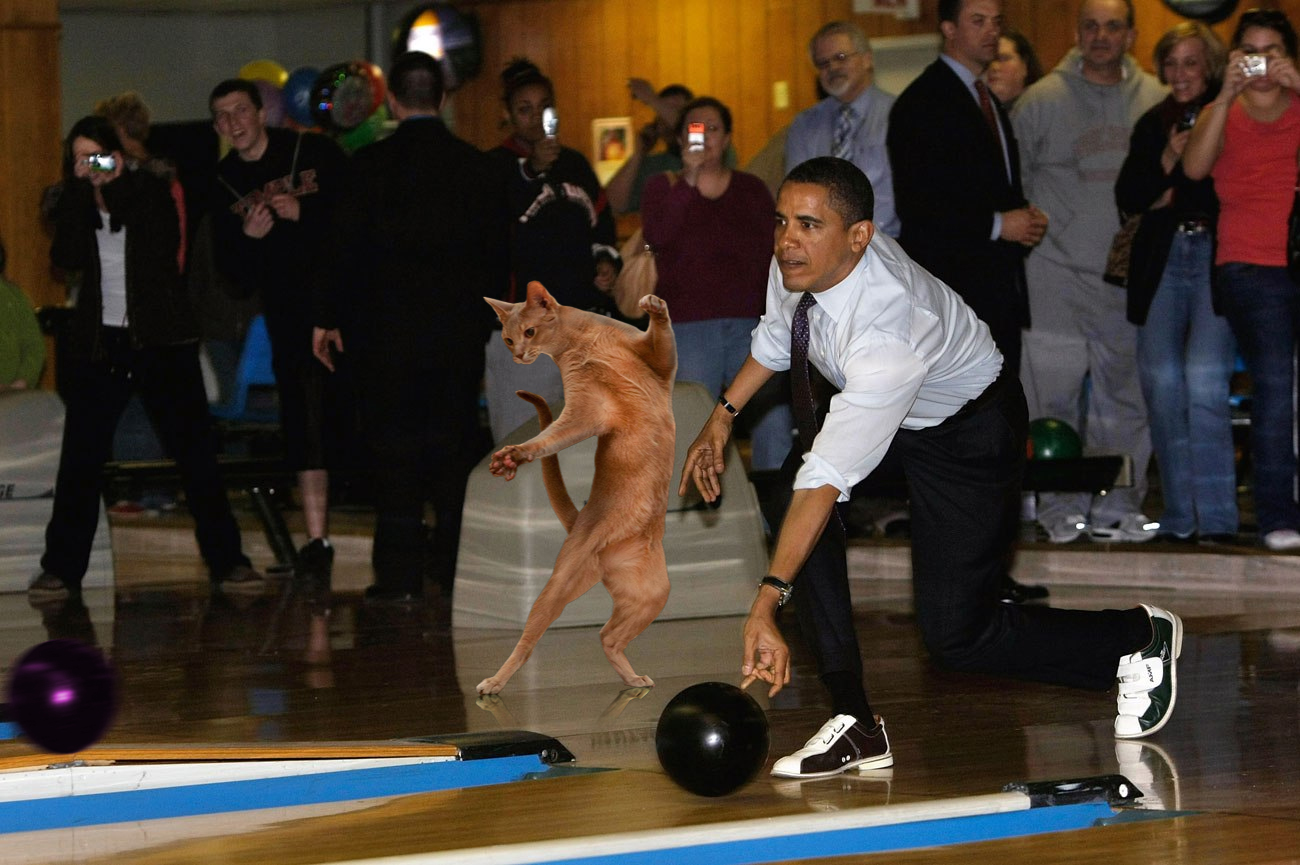
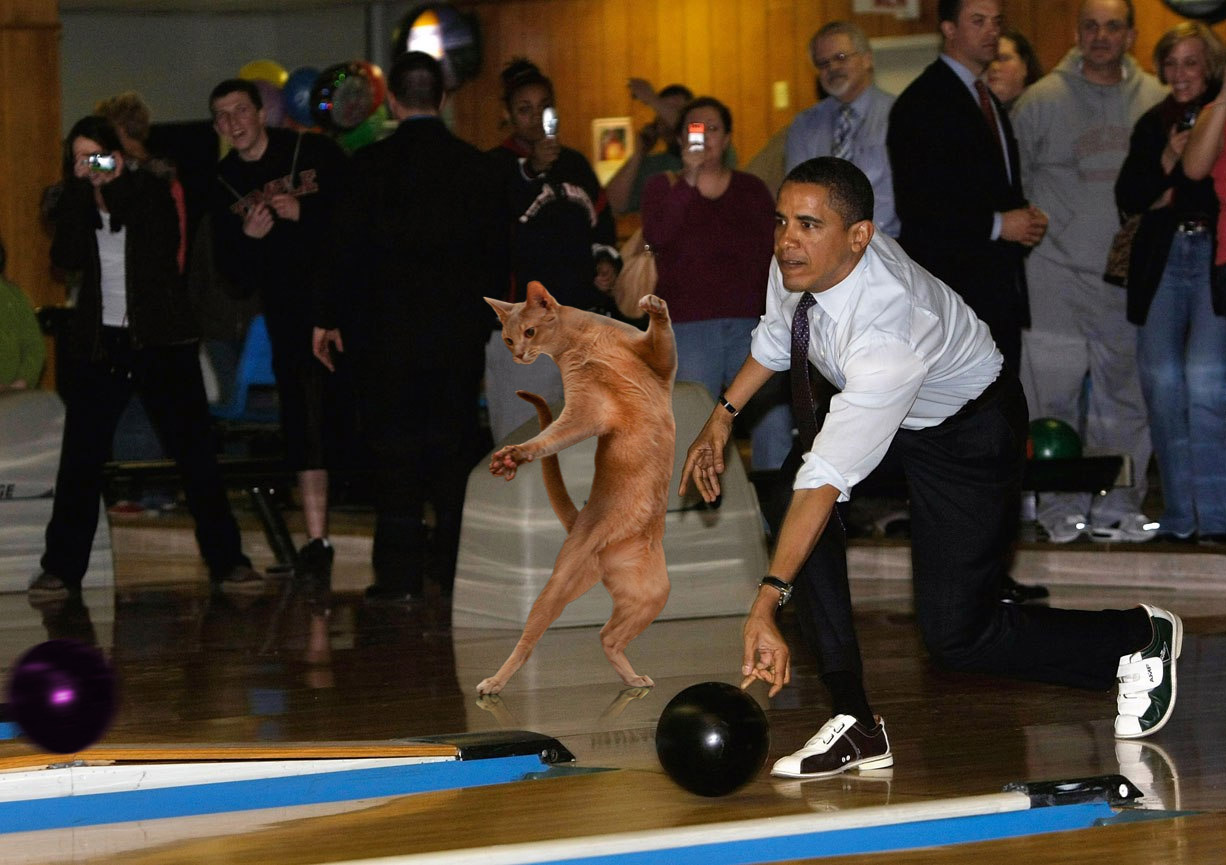
mainly slimming down sizes of the images on the website, also changed the nav bar to solid black with a slight transparrency

diff --git a/retouching.html b/retouching.html
@@ -84,7 +84,7 @@
             </div>
             <div class="row gallerybox">
                 <div class="col-sm-8 gallerypicbox">
-                    <img class="img-responsive" src="images/kitchen1.jpg"/></div>
+                    <img class="img-responsive" src="images/kitchen2.jpg"/></div>
                 <div class="col-sm-4 galleryinfo">
                     <h3>Kitchen Re-model Plan</h3>
                     <br>
@@ -93,11 +93,20 @@
             </div>
             <div class="row gallerybox">
                 <div class="col-sm-8 gallerypicbox">
-                    <img class="img-responsive" src="images/headdshot2.jpg"/></div>
+                    <img class="img-responsive" src="images/headdshot21080.jpg"/></div>
                 <div class="col-sm-4 galleryinfo">
-                    <h3>Kitchen Re-model Plan</h3>
+                    <h3>Facial Retouching</h3>
                     <br>
-                    <h4>I'm currently planning a re-model of the kitchen, could you show me what it would look like with grey cupboards and a new stainless steel refridgerator. </h4>
+                    <h4>Frequency seperation blemish removal.</h4>
+                </div>
+            </div>
+            <div class="row gallerybox">
+                <div class="col-sm-8 gallerypicbox">
+                    <img class="img-responsive" src="images/burger10.jpg"/></div>
+                <div class="col-sm-4 galleryinfo">
+                    <h3>Food Retouching.</h3>
+                    <br>
+                    <h4>A cleaned up burger.</h4>
                 </div>
             </div>
         </div>

diff --git a/index.html b/index.html
@@ -81,27 +81,22 @@
   <!-- Wrapper for slides -->
   <div class="carousel-inner">
     <div class="item active">
-      <img src="images/chair1080.png" alt="avatar">
-      <div class="carousel-caption">
-        <h3>Jeremy Corbyn</h3>
-        <p>We'd all love to see Jeremy on the iron throne!</p>
-      </div>
+      <img src="images/chair1080.jpg" alt="avatar">
+        <h3 class="text-center">Jeremy Corbyn</h3>
+        <p class="text-center">We'd all love to see Jeremy on the iron throne!</p>
     </div>
 
     <div class="item">
-      <img src="images/headdshot21080.jpg" alt="headshot">
-      <div class="carousel-caption">
-        <h3>Retouching</h3>
-        <p>Photoshoot Retouching</p>
-      </div>
+      <img src="images/headdshothori.jpg" alt="headshot">
+        <h3 class="text-center">Retouching</h3>
+        <p class="text-center">Photoshoot Retouching</p>
+      
     </div>
 
     <div class="item">
       <img src="images/epicfc1080new.png" alt="New York">
-      <div class="carousel-caption">
-        <h3>Epic F.C</h3>
-        <p>Hi, I'd love a club badge for my team Epic F.C.</p>
-      </div>
+        <h3 class="text-center">Epic F.C</h3>
+        <p class="text-center">Hi, I'd love a club badge for my team Epic F.C.</p>
     </div>
   </div>
 

diff --git a/main.css b/main.css
@@ -16,7 +16,7 @@
 }
 
 body .navbar-default {
-      background-color:transparent !important;
+      background-color: rgba(0,0,0,0.7);
       position: fixed;
       width: 100%;
       z-index: 1111;
@@ -36,7 +36,7 @@ body .jumbohue {
 
 body .jumbotron {
     height: 100vh;
-    background:  url(images/jumbotron.jpg.jpg) no-repeat center center;
+    background:  url(images/jumbotron2.jpg) no-repeat center center;
     background-size: cover;
     text-align: left;
     display: flex;

diff --git a/compositions.html b/compositions.html
@@ -84,7 +84,7 @@
             </div>
             <div class="row gallerybox">
                 <div class="col-sm-8 gallerypicbox">
-                    <img class="img-responsive" src="images/fifa.jpg"/></div>
+                    <img class="img-responsive" src="images/fifa2.jpg"/></div>
                 <div class="col-sm-4 galleryinfo">
                     <h3>Fifa Case Cover</h3>
                     <br>
